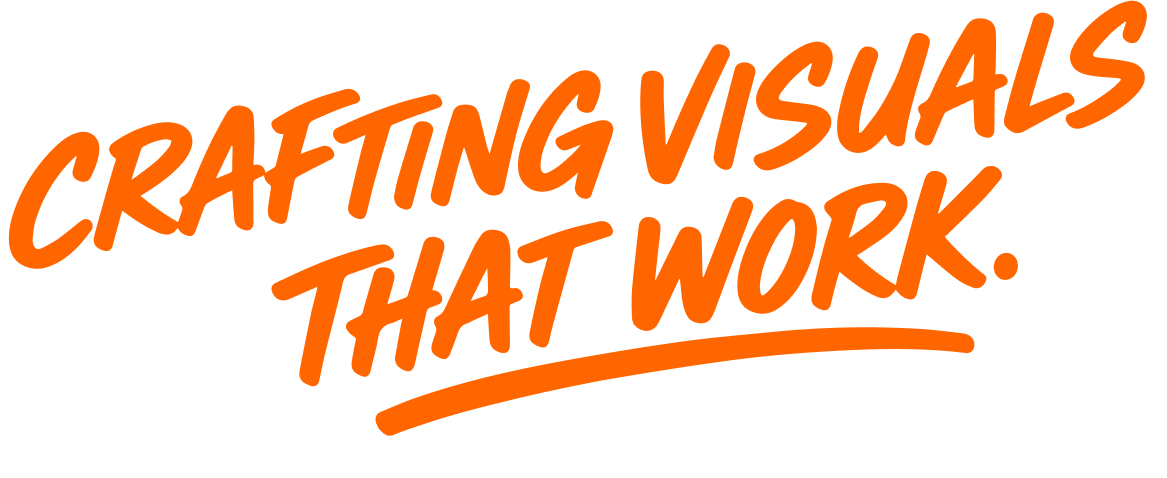
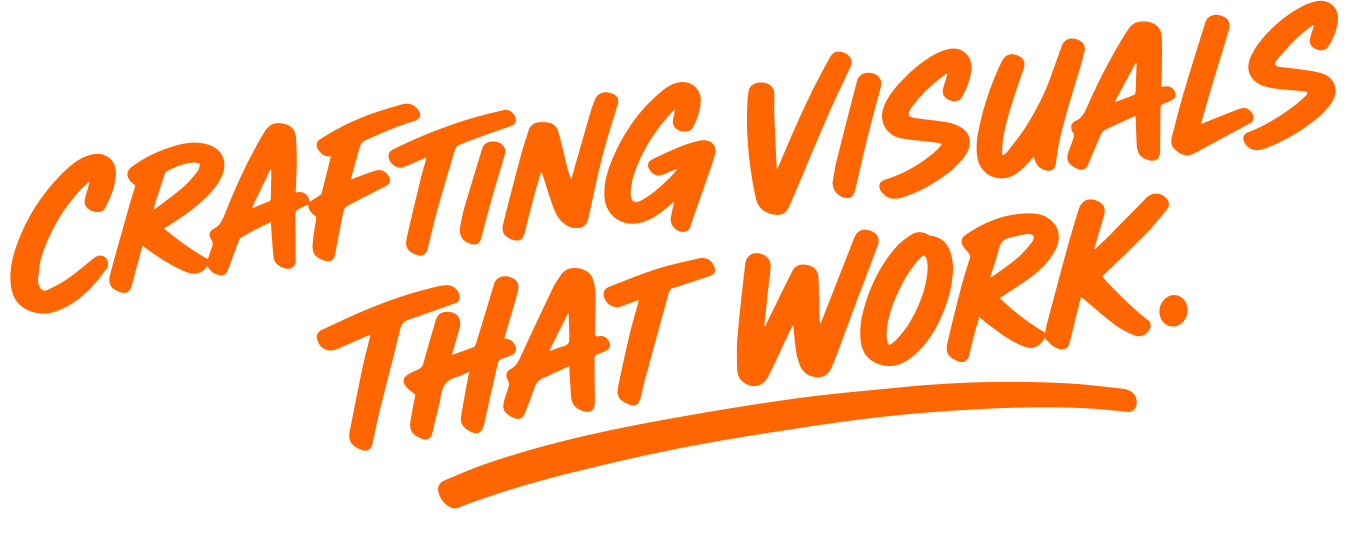
craft desde UW

diff --git a/index.html b/index.html
@@ -71,7 +71,7 @@ document.querySelector('meta[name="viewport"]').setAttribute('content','width=14
 #hero-craft { display: none; }
 @media (min-width: 769px) and (max-width: 2559px) {
     #hero-craft { display: block; position: absolute; top: 50%; left: 50%; transform: translate(-50%, -50%) translateY(var(--craft-parallax, 0px)) scale(1.05) scale(var(--craft-scale, 1)); pointer-events: none; z-index: 12; mix-blend-mode: hard-light; opacity: 0; transition: opacity 1.1s ease, transform 2.1s cubic-bezier(0.22, 1, 0.36, 1); }
-    #hero-craft.is-in { opacity: 0.9; transform: translate(-50%, -50%) translateY(var(--craft-parallax, 0px)) scale(1) scale(var(--craft-scale, 1)); }
+    #hero-craft.is-in { opacity: 0.8; transform: translate(-50%, -50%) translateY(var(--craft-parallax, 0px)) scale(1) scale(var(--craft-scale, 1)); }
     /* Entrance done: drop transform from the transition so the parallax tracks scroll 1:1,
        and open a very slow lane for --craft-scale so the image keeps breathing. */
     #hero-craft.craft-settled { transition: opacity 1.1s ease, --craft-scale 20s ease-out; }
@@ -563,11 +563,13 @@ document.querySelector('meta[name="viewport"]').setAttribute('content','width=14
    unconditionally, so this has to come later to win on a HiDPI ultrawide.
    ADJUST HERE: top / left are the only knobs for placement. */
 @media (min-width: 2560px) {
-    #hero-craft { display: block !important; position: absolute; top: calc(50% + 40px); left: 50%; transform: translate(-50%, -50%) translateY(var(--craft-parallax, 0px)) scale(1.05) scale(var(--craft-scale, 1)); pointer-events: none; z-index: 12; mix-blend-mode: hard-light; opacity: 0; filter: blur(16px); transition: opacity 1.9s cubic-bezier(0.22, 1, 0.36, 1), filter 4s cubic-bezier(0.22, 1, 0.36, 1), transform 2.4s cubic-bezier(0.22, 1, 0.36, 1); }
-    #hero-craft.is-in { opacity: 0.9; filter: blur(0); transform: translate(-50%, -50%) translateY(var(--craft-parallax, 0px)) scale(1) scale(var(--craft-scale, 1)); }
+    /* No width/height on purpose: the image renders at whatever its intrinsic size
+       is, so swapping craft-uw.png for a bigger export is all it takes to resize. */
+    #hero-craft { display: block !important; position: absolute; top: calc(50% + 40px); left: 50%; transform: translate(-50%, -50%) translateY(var(--craft-parallax, 0px)) scale(1.05) scale(var(--craft-scale, 1)); pointer-events: none; z-index: 12; mix-blend-mode: hard-light; opacity: 0; filter: blur(16px); transition: opacity 1.9s cubic-bezier(0.22, 1, 0.36, 1), filter 6s cubic-bezier(0.22, 1, 0.36, 1), transform 2.4s cubic-bezier(0.22, 1, 0.36, 1); }
+    #hero-craft.is-in { opacity: 0.8; filter: blur(0); transform: translate(-50%, -50%) translateY(var(--craft-parallax, 0px)) scale(1) scale(var(--craft-scale, 1)); }
     /* Entrance done: drop transform from the transition so the parallax tracks scroll 1:1,
        and open a very slow lane for --craft-scale so the image keeps breathing. */
-    #hero-craft.craft-settled { transition: opacity 1.9s cubic-bezier(0.22, 1, 0.36, 1), filter 4s cubic-bezier(0.22, 1, 0.36, 1), --craft-scale 20s ease-out; }
+    #hero-craft.craft-settled { transition: opacity 1.9s cubic-bezier(0.22, 1, 0.36, 1), filter 6s cubic-bezier(0.22, 1, 0.36, 1), --craft-scale 20s ease-out; }
 }
 </style>
 <link rel="preload" href="./assets/fonts/PPTelegraf-Regular.woff2" as="font" type="font/woff2" crossorigin />
@@ -746,7 +748,7 @@ document.addEventListener('click', function(e) {
                             var poll = setInterval(function () {
                                 if (!window._heroParallaxReady) return;
                                 clearInterval(poll);
-                                setTimeout(show, 400); // small pause after the hero settles
+                                setTimeout(show, 120); // small pause after the hero settles
                             }, 100);
                             setTimeout(function () { clearInterval(poll); show(); }, 12000); // safety net
                         })();
